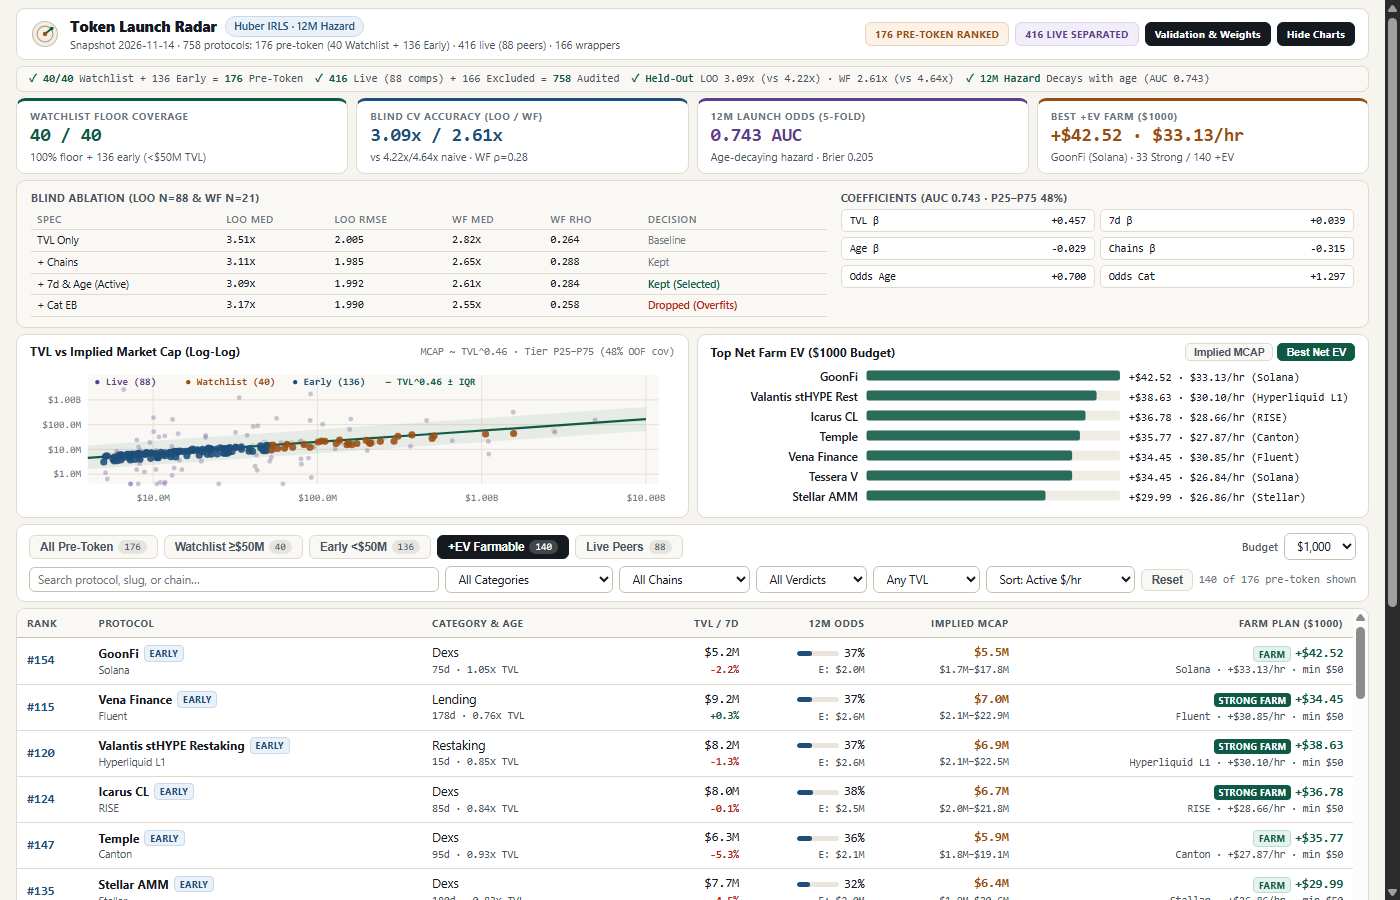
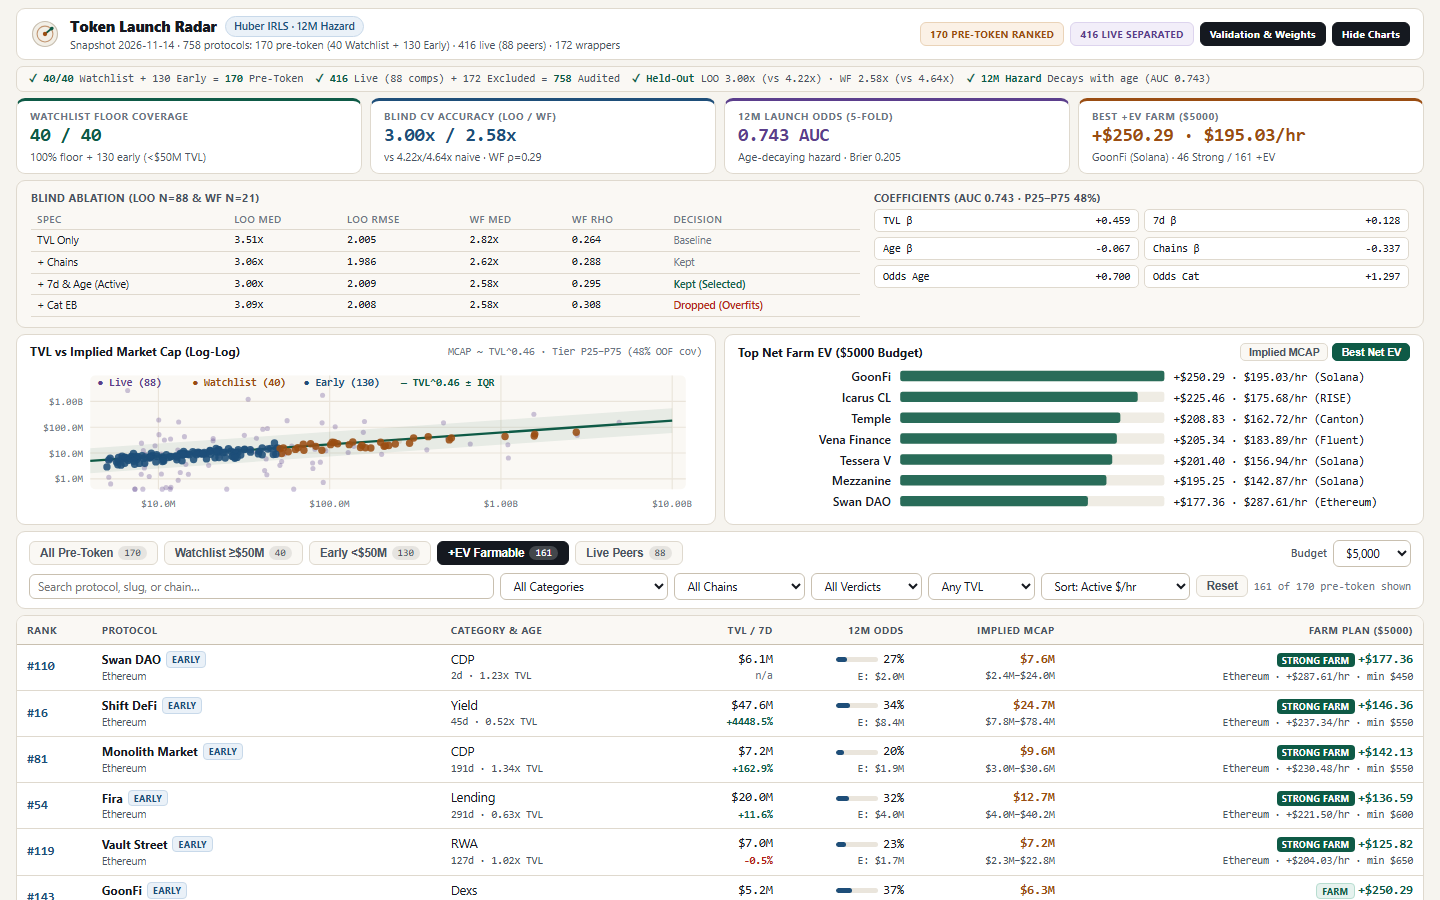
v9: L1-batched yield-offset farm plans ( default), improved LOO/WF ridge (3.00x/2.58x), wrapper cleanup, and 65KB untruncated dossier

diff --git a/dashboard/model-engine.js b/dashboard/model-engine.js
@@ -5,17 +5,18 @@
 ((root) => {
   'use strict';
 
-  const DAY_MS = 86_400_000, DEF_CAP = 1000, POOL_SHARE = 0.08, TVL_EXP = 0.78, CARRY_APR = 0.04;
-  const VER_RE = /\s(?:V\d+(?:\.\d+)?|v\d+(?:\.\d+)?|\d+\.\d+)$/, WRAP_RE = /\b(?:wrapped|staked|staking)\b/i, CEX_RE = /^(?:Binance|Coinbase|Bybit|Kraken|Bitget|OKX|Bitfinex|Gemini)\b/i;
+  const DAY_MS = 86_400_000, DEF_CAP = 5000, POOL_SHARE = 0.08, TVL_EXP = 0.78, CARRY_APR = 0.04;
+  const VER_RE = /(?:\s(?:V\d+(?:\.\d+)?|v\d+(?:\.\d+)?|\d+\.\d+)|[a-z][Vv][2-9])$/, WRAP_RE = /\b(?:wrapped|staked|staking|restaking)\b/i, CEX_RE = /^(?:Binance|Coinbase|Bybit|Kraken|Bitget|OKX|Bitfinex|Gemini)\b/i;
   const EXCL_CATS = new Set(['Bridge', 'Canonical Bridge', 'Cross Chain Bridge', 'Liquid Staking', 'Liquid Restaking', 'Restaked BTC', 'Staking Pool', 'Stablecoin Wrapper', 'CEX']);
+  const EARLY_EXCL_CATS = new Set(['Restaking', 'Anchor BTC', 'Decentralized BTC']);
   const GAS = Object.fromEntries('Solana:.005,Sui:.005,Aptos:.005,Ripple:.005,Stellar:.005,Sonic:.01,Mantle:.01,Plasma:.01,Unichain:.01,Gnosis:.01,Hyperliquid L1:.01,Hyperliquid:.01,Base:.02,Arbitrum:.02,Optimism:.02,OP_Mainnet:.02,Ink:.02,Monad:.02,Berachain:.02,Abstract:.02,Soneium:.02,Polygon:.03,Linea:.03,Scroll:.03,Starknet:.03,Blast:.03,zkSync Era:.03,zkSync:.03,Avalanche:.05,Binance:.06,BSC:.06,Cardano:.08,Rootstock:.15,Tron:.45,Bitcoin:2.5,Ethereum:3.5'.split(',').map((s) => { const [k, v] = s.split(':'); return [k, +v]; }));
 
   const clamp = (v, lo, hi) => Math.min(hi, Math.max(lo, v)), r2 = (v) => Math.round(v * 100) / 100, r4 = (v) => Math.round(v * 1e4) / 1e4;
   const quantile = (s, q) => { if (!s.length) return 0; const i = clamp(q, 0, 1) * (s.length - 1), lo = Math.floor(i), hi = Math.ceil(i); return lo === hi ? s[lo] : s[lo] * (hi - i) + s[hi] * (i - lo); };
   const medianOf = (a) => (a.length ? quantile([...a].sort((x, y) => x - y), 0.5) : 0.25);
   const isNoToken = (p) => p.mcap_usd === null && p.gecko_id === null && p.symbol === null, hasToken = (p) => !isNoToken(p);
-  const isCleanPre = (p) => isNoToken(p) && !(p.category && EXCL_CATS.has(p.category)) && !VER_RE.test(p.name) && !WRAP_RE.test(p.name) && !CEX_RE.test(p.name);
-  const isYieldBearing = (cat) => /(?:lend|cdp|rwa|basis|yield|curator|allocator|dex|liquidity|farm|restak)/i.test(String(cat || ''));
+  const isCleanPre = (p) => isNoToken(p) && !(p.category && (EXCL_CATS.has(p.category) || EARLY_EXCL_CATS.has(p.category))) && !VER_RE.test(p.name) && !WRAP_RE.test(p.name) && !CEX_RE.test(p.name);
+  const isYieldBearing = (cat) => /(?:lend|cdp|rwa|basis|yield|curator|allocator|dex|liquidity|farm|restak|collateral)/i.test(String(cat || ''));
   const sectorOf = (cat) => { const s = String(cat || '').toLowerCase(); return /(?:curator|allocator|yield|rwa|basis|cedefi)/.test(s) ? 'Yield & Allocators' : /(?:lend|cdp|collateral|credit)/.test(s) ? 'Credit & CDP' : /(?:dex|liquidity|deriv|option|prediction|perp)/.test(s) ? 'Trading & Perps' : 'Infra & Other'; };
   const ageDaysOf = (asOf, d) => { if (!d) return null; const e = Date.parse(`${asOf}T00:00:00Z`), s = Date.parse(`${d}T00:00:00Z`); return Number.isFinite(e) && Number.isFinite(s) ? Math.max(0, Math.floor((e - s) / DAY_MS)) : null; };
 
@@ -41,7 +42,7 @@
 
   /** Fits Huber IRLS (d=0.8): log(MCAP) ~ log(TVL) + asinh(7d/10) + log(age+30) + log(chains). */
   function fitValuationModel(train, asOf, opts = {}) {
-    const useG = opts.useGrowth !== false, useA = opts.useAge !== false, useC = opts.useChains !== false, kCat = opts.kCat || 0, lams = opts.lams || [0, 1, 40, 40, 6];
+    const useG = opts.useGrowth !== false, useA = opts.useAge !== false, useC = opts.useChains !== false, kCat = opts.kCat || 0, lams = opts.lams || [0, 1, 4, 4, 2];
     const mLt = train.length ? train.reduce((s, p) => s + Math.log(Math.max(1, p.tvl_usd)), 0) / train.length : Math.log(5e7);
     const ages = train.map((p) => ageDaysOf(asOf, p.listed_at)).filter((a) => a !== null), mA = ages.length ? medianOf(ages) : 365, rA = Math.log(mA + 30);
     const feat = (p) => [1, Math.log(Math.max(1, p.tvl_usd)) - mLt, useG ? Math.asinh((p.change_7d ?? 0) / 10) : 0, useA ? Math.log((ageDaysOf(asOf, p.listed_at) ?? mA) + 30) - rA : 0, useC ? Math.log(Math.max(1, p.chains.length)) : 0];
@@ -134,7 +135,7 @@
     const cap = Math.max(100, Number(budgetUsd) || DEF_CAP), odds = (row.token_odds_pct || 0) / 100;
     const effTvl = Math.pow(Math.max(1, row.tvl_usd / 1e6), TVL_EXP) * 1e6, isY = isYieldBearing(row.category);
     const sR = /(?:dex|liquidity|deriv|perp)/i.test(String(row.category || '')) ? 0.0012 : 0.0004;
-    const cR = (isY ? 0.005 : CARRY_APR) * (row.hold_days / 365), c7 = row.change_7d, age = row.age_days;
+    const cR = (isY ? 0 : CARRY_APR) * (row.hold_days / 365), c7 = row.change_7d, age = row.age_days;
     const oM = c7 !== null && c7 < -3 ? clamp(1 + (c7 + 3) / 60, 0.25, 1) : 1;
     const stagM = age === null ? 0.55 : age > 900 && (c7 === null || c7 < 5) ? clamp(900 / age, 0.45, 1) : 1;
     const br = Number(row.est_bridge_usd) || 0, fix = row.est_gas_usd + br;
@@ -162,15 +163,15 @@
     const { chain, txFee, chainCount } = pickCheapestChain(p.chains), c7 = p.change_7d;
     const baseHold = ageDays === null ? 45 : ageDays < 150 ? 60 : ageDays < 365 ? 45 : 30;
     const holdDays = c7 !== null && c7 < -10 ? Math.max(baseHold, 45) : baseHold;
-    const stepDays = txFee >= 1 ? 14 : 7, epochs = Math.max(2, Math.ceil(holdDays / stepDays));
+    const stepDays = txFee >= 1 ? 30 : 7, epochs = txFee >= 1 ? 1 : Math.max(2, Math.ceil(holdDays / stepDays));
     const needsBr = chain !== 'Ethereum' && p.chains.includes('Ethereum') && chainCount > 1;
     const brUsd = needsBr ? r2(chain === 'Solana' ? 0.85 : 0.45) : 0;
-    const eTxs = c7 !== null && c7 < -10 ? 2 : 1, txCount = 2 + eTxs + epochs + 1;
+    const eTxs = txFee < 1 && c7 !== null && c7 < -10 ? 2 : 1, txCount = 2 + eTxs + epochs + 1;
     const estGas = r2(txFee * txCount), mins = (needsBr ? 15 : 10) + (eTxs > 1 ? 20 : 12) + epochs * 5 + 10;
 
     const econ = computeFarmEconomics({ tvl_usd: p.tvl_usd, implied_value_usd: impliedUsd, token_odds_pct: r2(tokenOdds * 100), category: p.category, change_7d: c7, age_days: ageDays, hold_days: holdDays, est_gas_usd: estGas, est_bridge_usd: brUsd, active_mins: mins }, capital);
-    const cat = String(p.category || '').toLowerCase(), tr = eTxs > 1 ? `$${Math.round(capital / 2)} x 2 tranches` : `$${capital} deposit`;
-    const act = /(?:curator|allocator|rwa|basis|yield)/.test(cat) ? [`Deposit ${tr} in ${p.name} vault (${chain})`, `Verify points & compound every ${stepDays}d (${epochs}x)`] : /(?:lend|cdp|collateral)/.test(cat) ? [`Supply ${tr} USDC on ${p.name} (${chain}) <35% LTV`, `Check health & accrue every ${stepDays}d (${epochs}x)`] : /(?:dex|liquidity|farm)/.test(cat) ? [`Add ${tr} to stable LP on ${p.name} (${chain})`, `Swap $25+ & harvest every ${stepDays}d (${epochs}x)`] : /(?:deriv|option|prediction|perp)/.test(cat) ? [`Post ${tr} margin on ${p.name} (${chain}) delta-neutral`, `Place 1 hedged maker fill every ${stepDays}d (${epochs}x)`] : [`Stake ${tr} in ${p.name} pool (${chain})`, `Log 1 on-chain tx every ${stepDays}d (${epochs}x)`];
+    const cat = String(p.category || '').toLowerCase(), tr = eTxs > 1 ? `$${Math.round(capital / 2)} x 2 tranches` : `$${capital}`;
+    const act = /(?:curator|allocator|rwa|basis|yield)/.test(cat) ? [`Deposit ${tr} into ${p.name} vault (${chain})`, `Verify points & compound every ${stepDays}d (${epochs}x)`] : /(?:lend|cdp|collateral)/.test(cat) ? [`Supply ${tr} USDC on ${p.name} (${chain}) <35% LTV`, `Check health & accrue every ${stepDays}d (${epochs}x)`] : /(?:dex|liquidity|farm)/.test(cat) ? [`Add ${tr} to stable LP on ${p.name} (${chain})`, `Swap $25+ & harvest every ${stepDays}d (${epochs}x)`] : /(?:deriv|option|prediction|perp)/.test(cat) ? [`Post ${tr} margin on ${p.name} (${chain}) delta-neutral`, `Place 1 hedged maker fill every ${stepDays}d (${epochs}x)`] : [`Stake ${tr} in ${p.name} pool (${chain})`, `Log 1 on-chain tx every ${stepDays}d (${epochs}x)`];
     const chH = chainCount > 1 ? `cheapest of ${chainCount}` : 'native', flow = c7 !== null && c7 < -10 ? `${c7.toFixed(1)}% 7d, exit <-25%` : c7 !== null && c7 > 10 ? `+${c7.toFixed(1)}% 7d inflow` : `${c7 !== null ? `${c7 >= 0 ? '+' : ''}${c7.toFixed(1)}%` : 'n/a'} 7d`;
     const s1 = needsBr ? `Bridge $${capital} USDC to ${chain} (${chH}) + $${Math.max(2, Math.ceil(estGas * 2))} gas. Cost: $${brUsd.toFixed(2)} bridge + $${(txFee * 2).toFixed(2)} gas (2 txs). Time: 15m.` : `Fund ${chain} (${chH}) with $${capital} USDC + $${Math.max(1, Math.ceil(estGas * 2))} gas. Cost: $${(txFee * 2).toFixed(2)} gas (2 txs). Time: 10m.`;
     const s2 = `${act[0]} ($${capital} principal returned at exit). Cost: $${(txFee * eTxs).toFixed(2)} gas + $${econ.dyn_slippage.toFixed(2)} spread. Time: ${eTxs > 1 ? '20m' : '12m'}.`;

diff --git a/dashboard/app.js b/dashboard/app.js
@@ -5,7 +5,7 @@
   if (!D || !Array.isArray(D.rows) || !E) { document.body.innerHTML = '<p style="padding:24px;color:#B42318">Missing window.RADAR or RadarEngine</p>'; return; }
 
   const qp = new URLSearchParams(window.location.search);
-  const state = { view: qp.get('view') || 'all', search: qp.get('q') || '', category: qp.get('cat') || '', chain: qp.get('chain') || '', verdict: qp.get('verdict') || '', minTvl: Number(qp.get('minTvl') || 0), sort: qp.get('sort') || 'rank', budget: Number(qp.get('budget') || 1000), rightChart: qp.get('chart') || 'val', proofOpen: qp.get('proof') === '1', chartsHidden: qp.get('charts') === '0', selectedSlug: qp.get('detail') || null };
+  const state = { view: qp.get('view') || 'all', search: qp.get('q') || '', category: qp.get('cat') || '', chain: qp.get('chain') || '', verdict: qp.get('verdict') || '', minTvl: Number(qp.get('minTvl') || 0), sort: qp.get('sort') || 'rank', budget: Number(qp.get('budget') || 5000), rightChart: qp.get('chart') || 'val', proofOpen: qp.get('proof') === '1', chartsHidden: qp.get('charts') === '0', selectedSlug: qp.get('detail') || null };
   const $ = (id) => document.getElementById(id), esc = (s) => String(s ?? '').replace(/&/g, '&amp;').replace(/</g, '&lt;').replace(/>/g, '&gt;').replace(/"/g, '&quot;');
   const fmtUsd = (n) => { if (n == null || !Number.isFinite(n)) return '—'; const s = n < 0 ? '-' : '', a = Math.abs(n); return a >= 1e9 ? `${s}$${(a / 1e9).toFixed(2)}B` : a >= 1e6 ? `${s}$${(a / 1e6).toFixed(1)}M` : a >= 1e3 ? `${s}$${(a / 1e3).toFixed(1)}K` : `${s}$${a.toFixed(a < 100 ? 2 : 0)}`; };
   const fmtPct = (v) => v == null || !Number.isFinite(v) ? '<span class="dim">n/a</span>' : `<span class="${v >= 0 ? 'pos' : 'neg'}">${v > 0 ? '+' : ''}${v.toFixed(1)}%</span>`;
@@ -127,7 +127,7 @@
 
     const pStep = (t) => { const m = t.match(/^(.*?)\.\s+Cost:\s*(.+?)\.\s+Time:\s*(.+)$/i); if (!m) return { main: t, cap: '', cost: '', time: '' }; const cm = m[1].match(/^(.*?)\s*\((\$[\d,]+\s+principal\s+returned\s+at\s+exit)\)$/i); return { main: `${cm ? cm[1] : m[1]}.`, cap: cm ? cm[2] : '', cost: m[2], time: m[3].replace(/\.$/, '') }; };
     const evS = row.dyn_ev >= 0 ? '+' : '-', hrS = row.dyn_ev_hr >= 0 ? '+' : '-';
-    const tiers = [250, 1000, 5000].map((cap) => { const t = E.computeFarmEconomics(row, cap), s = t.dyn_ev >= 0 ? '+' : '-'; return `<div class="tier-box${cap === state.budget ? ' active' : ''}"><div>$${cap.toLocaleString()} · ${esc(t.dyn_verdict)}</div><div class="${t.dyn_ev >= 0 ? 'pos' : 'neg'}">${s}$${Math.abs(t.dyn_ev).toFixed(2)} (${t.dyn_roi.toFixed(1)}% · $${t.dyn_ev_hr.toFixed(1)}/hr)</div></div>`; }).join('');
+    const tiers = [1000, 5000, 10000].map((cap) => { const t = E.computeFarmEconomics(row, cap), s = t.dyn_ev >= 0 ? '+' : '-'; return `<div class="tier-box${cap === state.budget ? ' active' : ''}"><div>$${cap.toLocaleString()} · ${esc(t.dyn_verdict)}</div><div class="${t.dyn_ev >= 0 ? 'pos' : 'neg'}">${s}$${Math.abs(t.dyn_ev).toFixed(2)} (${t.dyn_roi.toFixed(1)}% · $${t.dyn_ev_hr.toFixed(1)}/hr)</div></div>`; }).join('');
     drawer.innerHTML = `<div class="d-head"><div><div class="d-title">${esc(row.name)} ${badge}</div><div class="d-sub">Rank #${row.rank} · ${esc(row.category || 'Other')} (${esc(row.sector)}) · ${row.age_days !== null ? `${row.age_days}d` : 'n/a'} · ${esc(row.chains.join(', '))}</div></div><button class="btn-ghost" id="d-close" type="button">Close</button></div><div><div class="d-sec-title"><span>Valuation Decomposition</span><span>P25–P75: ${fmtUsd(row.implied_low_usd)}–${fmtUsd(row.implied_high_usd)}</span></div><div class="d-formula">Base ${fmtUsd(dec.baseSizeVal)} (TVL^${dec.elasticity.toFixed(2)}) × ${row.growth_multiplier.toFixed(2)} (7d) × ${row.maturity_multiplier.toFixed(2)} (age) × ${row.chain_multiplier.toFixed(2)} (chains) = <b>${fmtUsd(row.implied_value_usd)}</b></div></div><div class="d-metrics">${box('TVL', fmtUsd(row.tvl_usd))}${box('Implied MCAP', fmtUsd(row.implied_value_usd), 'ochre')}${box('12M Odds', `${row.token_odds_pct.toFixed(1)}%`, 'steel')}${box('Prob-Wtd MCAP', fmtUsd(row.prob_weighted_fdv_usd))}${box('7d Flow', fmtPct(row.change_7d))}${box('Multiple', `${row.applied_multiple.toFixed(2)}x`)}</div><div><div class="d-sec-title"><span>${pLbl}</span><span>${peers.length} comps</span></div><div class="peers-box">${peerSvg}</div></div><div><div class="d-sec-title"><span>Farm Plan ($${state.budget} · ${esc(row.farm_chain)} · Min ${row.dyn_min_cap ? `$${row.dyn_min_cap}` : 'n/a'})</span>${vBadge(row.dyn_verdict)}</div><div class="econ-grid">${box('Gross', `+$${row.dyn_gross.toFixed(2)}`, 'pos')}${box('Gas+Br', `-$${(row.est_gas_usd + row.dyn_bridge).toFixed(2)}`, 'neg')}${box('Slip+Carry', `-$${(row.dyn_slippage + row.dyn_carry).toFixed(2)}`, 'neg')}${box('Net EV', `${evS}$${Math.abs(row.dyn_ev).toFixed(2)} (${hrS}$${Math.abs(row.dyn_ev_hr).toFixed(2)}/hr)`, row.dyn_ev >= 0 ? 'pos' : 'neg')}</div><div class="tier-grid">${tiers}</div><ol class="steps-list">${plan.steps.map((s, i) => { const p = pStep(s); return `<li class="step-item"><span class="step-num">${i + 1}</span><div class="step-body"><div>${esc(p.main)}</div><div class="step-meta">${p.cap ? `<span class="step-tag cap">${esc(p.cap)}</span>` : ''}${p.cost ? `<span class="step-tag cost">${esc(p.cost)}</span>` : ''}${p.time ? `<span class="step-tag time">${esc(p.time)}</span>` : ''}</div></div></li>`; }).join('')}</ol></div>`;
     $('d-close').addEventListener('click', () => { state.selectedSlug = null; renderAll(); });
   }

diff --git a/dashboard/index.html b/dashboard/index.html
@@ -41,7 +41,7 @@
         <button class="tab-btn" data-view="farmable" type="button">+EV Farmable <span class="cnt" id="cnt-farm">0</span></button>
         <button class="tab-btn" data-view="live" type="button">Live Peers <span class="cnt" id="cnt-live">0</span></button>
         <div class="spacer"></div>
-        <label class="budget-ctl"><span>Budget</span><select id="f-budget"><option value="250">$250</option><option value="500">$500</option><option value="1000" selected>$1,000</option><option value="2500">$2,500</option><option value="5000">$5,000</option></select></label>
+        <label class="budget-ctl"><span>Budget</span><select id="f-budget"><option value="250">$250</option><option value="1000">$1,000</option><option value="2500">$2,500</option><option value="5000" selected>$5,000</option><option value="10000">$10,000</option></select></label>
       </div>
       <div class="filters-row">
         <input id="f-search" type="search" placeholder="Search protocol, slug, or chain…">
